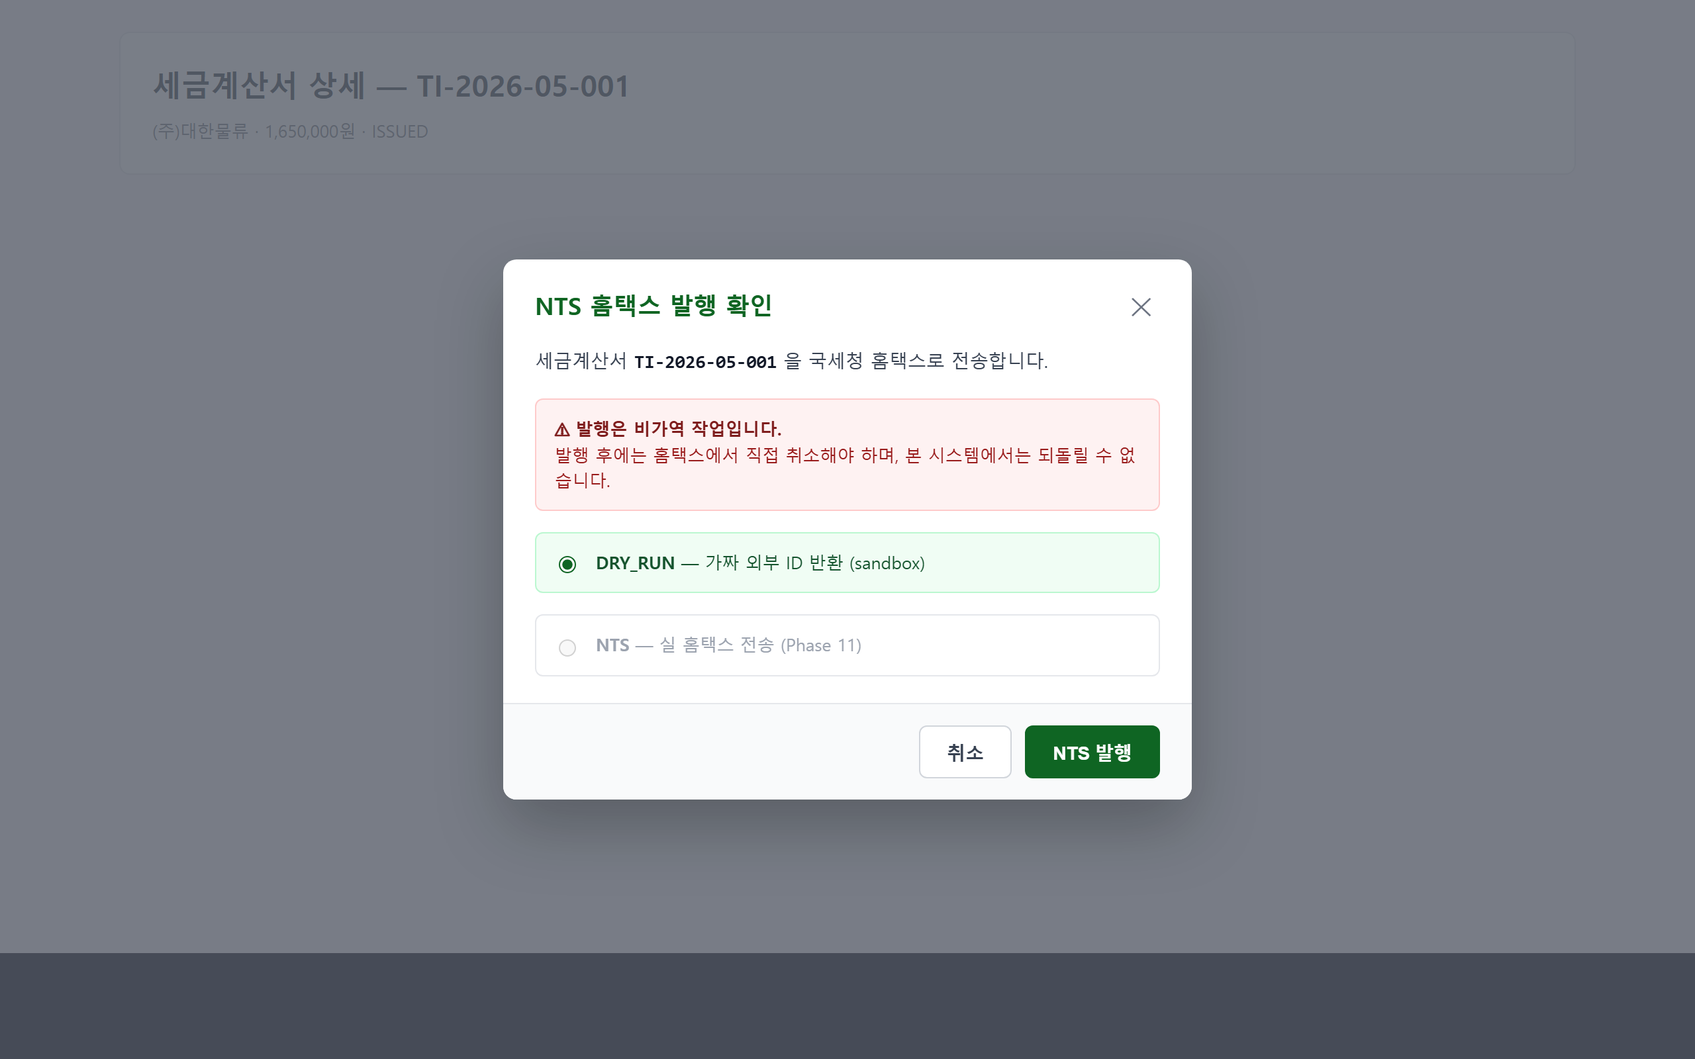
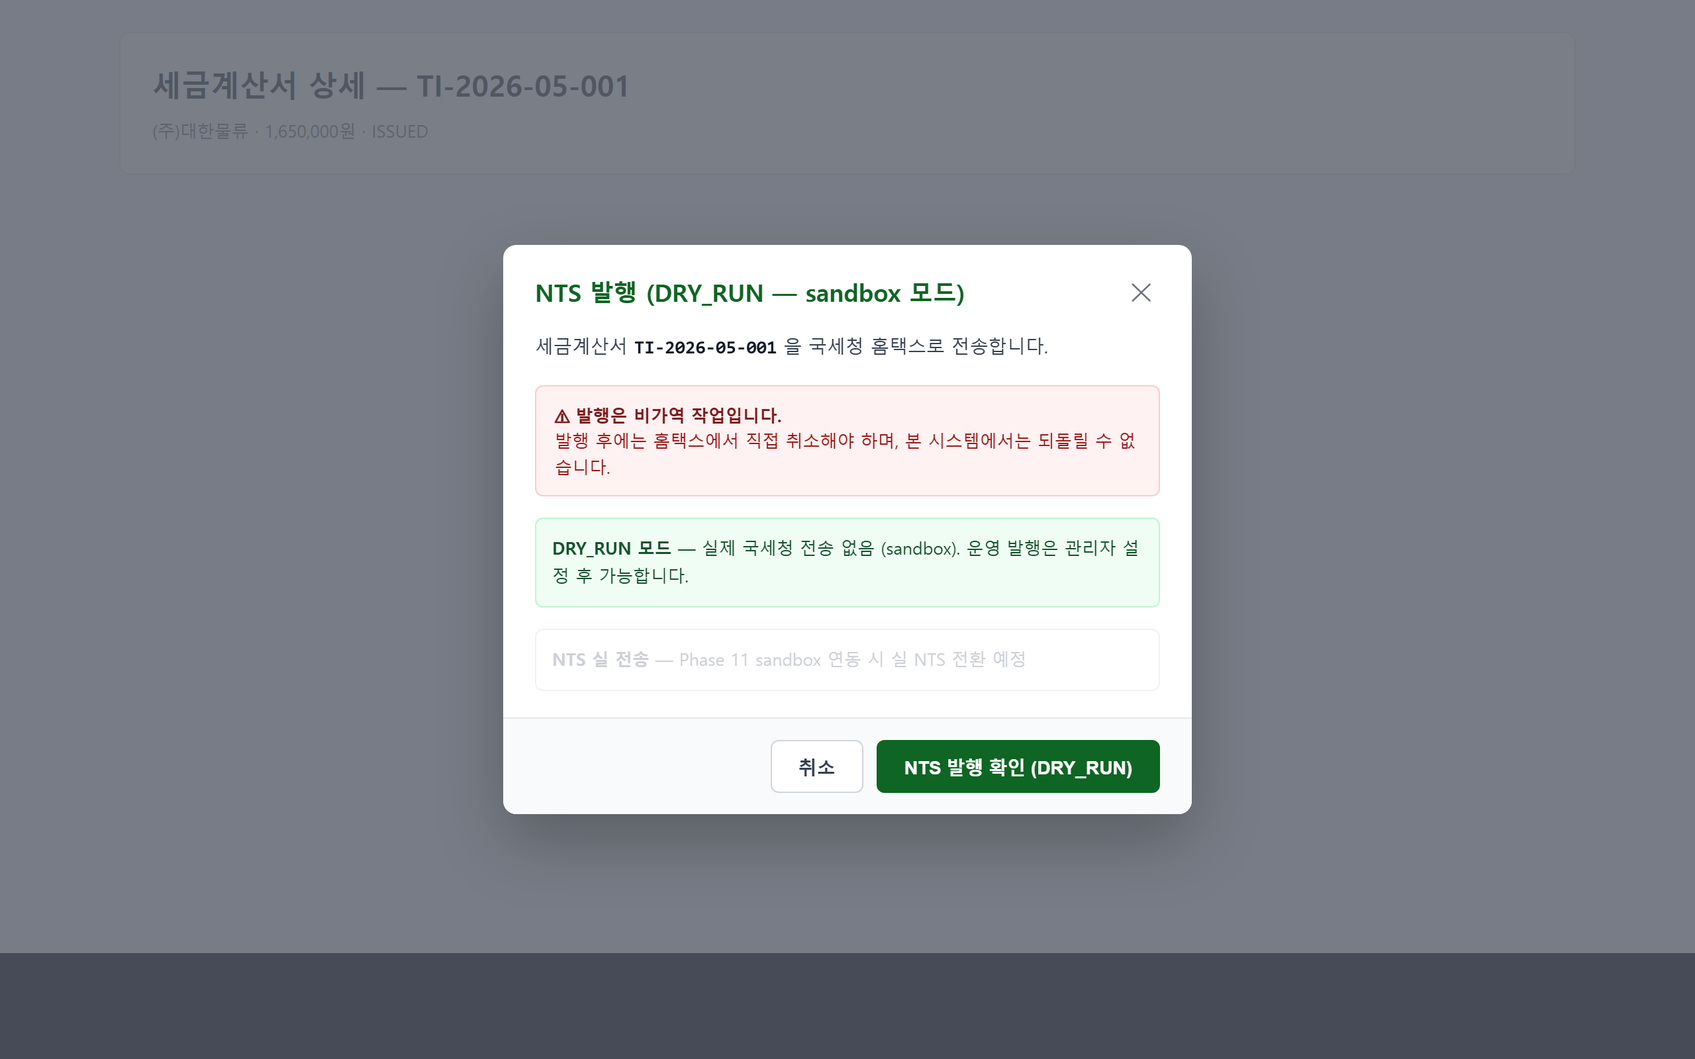
docs(sp-09-1): Codex 사이클 1 후반 5-section review markdown + 02 PNG 재캡처
- codex-{be,fe,designer,qa,devops}-cycle1.md 5개 (cross-check review 결과)
- 02 PNG: DRY_RUN 안내 modal 갱신 HTML 반영 재캡처 (109KB)

Codex review TM 결정안: cycle 2 진입 권고했으나
Claude 5-team 가 cycle 1 후반에 Codex 발견 결함 4 merge blocker + 6 medium 통합 fix 완료
(commits 7c5f0982, c56022ce, b0f5378a) → cycle 1 내 모든 결함 해소 → cycle 2 불필요

diff --git a/docs/qa/sp-09-1-nts-etax-emit-shell/codex-be-cycle1.md b/docs/qa/sp-09-1-nts-etax-emit-shell/codex-be-cycle1.md
@@ -1,0 +1,54 @@
+# SP-09-1 NTS e-Tax 발행 shell — Codex BE Cycle 1 후반 리뷰
+
+브랜치: `feat/sp-09-1-nts-etax-emit-shell`  
+HEAD: `7363a729`  
+범위: Section A — `accounting-service` read-only cross-check
+
+## 결론
+
+**cycle 2 진입 권고.** Claude cycle 1의 주요 BE 지적 중 `ETaxClient` 2-인자 시그니처, V16 partial unique index, `markEmitted()` 도메인 가드, audit 직접 검증은 대체로 반영되었다. 다만 `REQUIRES_NEW` audit 격리가 같은 bean 내부 self-invocation으로 적용되지 않아 설계 의도와 테스트 설명이 틀린 상태다.
+
+## 결함
+
+### HIGH — `recordEmitAudit()`의 `REQUIRES_NEW`가 self-invocation으로 적용되지 않음
+
+- 위치: `services/accounting-service/src/main/java/com/samhanair/logis/accounting/service/TaxInvoiceEmitService.java:68`, `:113`, `:135`
+- 현상: `emitNts()`가 같은 클래스의 `recordEmitAudit()`를 직접 호출한다. Spring proxy 기반 `@Transactional(propagation = REQUIRES_NEW)`는 외부 proxy 호출에서만 적용되므로, 현재 audit 기록은 비즈니스 트랜잭션과 독립 커밋되지 않는다.
+- 영향: Javadoc의 “audit 예외가 비즈니스 롤백을 유발하지 않음 / 독립 커밋” 보장이 실제와 다르다. audit 저장이 rollback-only를 만들거나 외부 트랜잭션에 묶이면 `markEmitted()`와 audit의 실패/커밋 경계가 의도와 달라진다.
+- 권고: `TaxInvoiceEmitAuditRecorder` 같은 별도 `@Service`로 분리하고 그 public method에 `REQUIRES_NEW`를 적용하거나, `TransactionTemplate(REQUIRES_NEW)`로 명시 실행한다.
+
+### MEDIUM — DB unique 위반이 API 409 계약으로 surface되지 않음
+
+- 위치: `TaxInvoiceEmitService.java:110`, `V16__tax_invoice_etax_external_id_unique.sql:6`
+- 현상: V16은 `e_tax_external_id` partial unique index를 추가했지만, `ti.markEmitted(result.eTaxExternalId())` 이후 flush/commit 시 발생할 수 있는 `DataIntegrityViolationException`을 도메인 `TAX_INVOICE_ALREADY_EMITTED` 409로 변환하지 않는다.
+- 영향: 동일 NTS 접수번호가 두 세금계산서에 반환되는 race/외부 중복 상황에서 500 계열로 노출될 가능성이 있다. 검토 기준의 “중복 발행 이중 가드(DB UNIQUE + 도메인)”는 DB 가드만 추가됐고 HTTP 계약은 미완성이다.
+- 권고: 저장/flush 경계에서 unique violation을 catch해 `TAX_INVOICE_ALREADY_EMITTED` 또는 별도 도메인 error로 변환하고 IT를 추가한다.
+
+### MEDIUM — NTS 모드는 env template 기본값만으로도 “키 설정됨”으로 통과함
+
+- 위치: `ETaxClientImpl.java:105`, `infrastructure/env-templates/accounting-service.env:38`
+- 현상: `submitNts()`는 `ntsApiKey.isBlank()`만 검사한다. env template은 `NTS_API_KEY=PLACEHOLDER_DEV_ONLY`를 제공하므로, 운영자가 `ETAX_SUBMIT_METHOD=NTS`만 바꾸면 placeholder가 실제 키처럼 통과하고 이후 “미구현” 502로만 실패한다.
+- 영향: Phase 11 전환 시 설정 오류를 빠르게 구분하지 못한다. credential guard 관점에서 placeholder는 안전하지만, 런타임 guard로는 불충분하다.
+- 권고: `PLACEHOLDER_DEV_ONLY`, `changeme`, `dummy` 계열을 명시 차단하거나 NTS 모드 활성화 flag/프로파일을 분리한다.
+
+### LOW — `ETaxClientImpl` Javadoc과 구현의 submitMethod 우선순위가 서로 충돌
+
+- 위치: `ETaxClientImpl.java:55-57`, `:67-74`
+- 현상: Javadoc은 “서버 property가 DRY_RUN이면 요청이 NTS여도 DRY_RUN 실행”이라고 설명하지만 구현은 요청 `submitMethod`를 우선해 `NTS` 분기로 진입한다.
+- 영향: 운영 정책 오해 가능. 실제 코드는 Claude H-1 fix 방향(요청 파라미터 우선)에 맞다.
+- 권고: Javadoc에서 서버 property override 설명을 제거하고 “request 우선, null/blank만 property fallback”으로 정정한다.
+
+## Claude cycle 1 fix cross-check
+
+| Claude 항목 | Codex 판정 | 근거 |
+|---|---|---|
+| H-1 submitMethod 미전달 | FIXED | `ETaxClient.submit(TaxInvoice, String)`와 `TaxInvoiceEmitService` 전달 반영 |
+| H-2 audit rollback 위험 | PARTIAL / 재결함 | `REQUIRES_NEW`를 붙였지만 self-invocation이라 적용 안 됨 |
+| M-1 DB UNIQUE 미존재 | FIXED + 후속 MEDIUM | V16 추가. 단 unique violation HTTP 변환 없음 |
+| M-3 `linkETaxExternalId` 잔류 | PARTIAL | `@Deprecated(forRemoval=true)` 처리됨. 호출부 제거는 후속 |
+| M-4 audit 직접 검증 없음 | FIXED(테스트 의도) / 구현 재검토 필요 | repository 직접 조회 추가. 단 self-invocation 때문에 “독립 트랜잭션” 설명은 틀림 |
+| M-5 UUID fallback | FIXED | `UNKNOWN` fallback으로 UUID substring 제거 |
+
+## TM 결정안
+
+**cycle 2 진입 권고.** Merge blocker: `REQUIRES_NEW` self-invocation 수정. 권고 blocker: DB unique violation 409 변환, placeholder runtime guard, Javadoc 정정.

diff --git a/docs/qa/sp-09-1-nts-etax-emit-shell/codex-qa-cycle1.md b/docs/qa/sp-09-1-nts-etax-emit-shell/codex-qa-cycle1.md
@@ -1,0 +1,61 @@
+# SP-09-1 NTS e-Tax 발행 shell — Codex QA Cycle 1 후반 리뷰
+
+브랜치: `feat/sp-09-1-nts-etax-emit-shell`  
+HEAD: `7363a729`  
+범위: Section D — IT, Playwright, QA screenshots, dev-report
+
+## 결론
+
+**cycle 2 진입 권고.** Claude cycle 1에서 지적한 빈 PNG, `|| true`, audit 직접 검증, enum 불일치는 대부분 수정됐다. 그러나 Playwright T5는 여전히 현재 page 상태를 혼동해 SALES 버튼 검증을 INVENTORY 페이지에서 수행하고, T1/T3는 route mock과 페이지 로드 확인 중심이라 실제 emit flow 검증력이 낮다.
+
+## 결함
+
+### HIGH — Playwright T5가 SALES 버튼 검증을 INVENTORY 페이지에서 수행함
+
+- 위치: `clients/desktop/playwright/sp-09-1-nts-etax-emit-shell/sp-09-1-nts-etax-emit-shell.spec.ts:536-562`
+- 현상: T5는 SALES 페이지에서 `salesBlocked`를 계산한 뒤 MANAGER, INVENTORY 페이지로 이동한다. 이후 `salesNtsBtnCount`를 계산하는 시점은 이미 INVENTORY 페이지다.
+- 영향: “SALES 역할에서 NTS 발행 버튼 미노출” 검증이 실제 SALES 화면을 보지 않는다. Claude H1의 `|| true` false-green은 제거됐지만, assertion 대상 페이지가 바뀌어 여전히 권한 회귀를 놓칠 수 있다.
+- 권고: SALES 페이지에서 `salesNtsBtnCount`를 즉시 계산하거나, 역할별로 `test.step`을 분리해 page 이동과 assertion을 붙여 둔다.
+
+### MEDIUM — Playwright T1의 422/409 분기는 실 FE flow에서 트리거되지 않음
+
+- 위치: `sp-09-1-nts-etax-emit-shell.spec.ts:141-156`, `:206-209`
+- 현상: T1은 `url.includes('draftTest')`, `duplicateTest`일 때 422/409를 반환하지만 실제 UI가 해당 URL을 호출하지 않는다. 테스트는 페이지 로드와 pageerror 없음만 확인한다.
+- 영향: 422/409 한국어 에러 렌더링 회귀를 잡지 못한다.
+- 권고: 실제 버튼 클릭 전에 route가 409/422를 반환하도록 고정하고, `role="alert"` 또는 error banner text를 assert한다.
+
+### MEDIUM — Playwright T3는 emit 버튼 클릭 없이 eTaxExternalId 관련 문구만 검사함
+
+- 위치: `sp-09-1-nts-etax-emit-shell.spec.ts:337-414`
+- 현상: emit-nts route와 audit route를 mock하지만 실제 “NTS 발행” 버튼 클릭, modal confirm, API 호출, cache invalidation 뒤 banner 표시를 연속 검증하지 않는다. `bodyText.includes('e-Tax')` 같은 넓은 조건으로 통과 가능하다.
+- 영향: eTaxExternalId banner가 실제 성공 후 렌더되는지 보장하지 못한다.
+- 권고: issued detail 진입 → 버튼 클릭 → modal confirm → route 호출 횟수 확인 → `data-testid="tax-invoice-detail-etax-external-id"` 표시 순서로 검증한다.
+
+### LOW — IT의 audit “독립 트랜잭션” 주석/검증 설명이 구현과 다름
+
+- 위치: `TaxInvoiceEmitNtsIT.java:57-60`, `TaxInvoiceEmitService.java:113`, `:135`
+- 현상: IT는 `recordEmitAudit`가 `REQUIRES_NEW`라 테스트 rollback과 무관하게 audit row가 남는다고 설명한다. 실제 구현은 self-invocation이라 `REQUIRES_NEW`가 적용되지 않는다.
+- 영향: 테스트가 audit row 존재는 볼 수 있어도 트랜잭션 독립성은 검증하지 못한다.
+- 권고: BE fix 후 audit recorder bean을 분리하고, audit 실패가 `markEmitted` commit을 막지 않는 별도 테스트를 추가한다.
+
+## Claude cycle 1 fix cross-check
+
+| Claude 항목 | Codex 판정 | 근거 |
+|---|---|---|
+| C1 FE/BE enum 불일치 | FIXED | FE `NTS`, BE `DRY_RUN|NTS` 일치 |
+| C2 빈 screenshot | FIXED | PNG 4장 90~110KB로 교체 |
+| H1 `|| true` false green | PARTIAL | `|| true` 제거. 하지만 T5 assertion page 혼동 잔존 |
+| H2 audit 직접 검증 없음 | FIXED(존재 검증) / PARTIAL(독립성) | repository 조회 추가. 독립 트랜잭션 검증은 안 됨 |
+| H3 DB unique 없음 | FIXED | V16 partial unique 추가 |
+| M1 route mock 자기 참조 | REMAINS | 주석으로 목적 재정의했지만 실제 에러 렌더 assert 없음 |
+| M2 dead code | FIXED | `etaxIdDisplayed` expect 추가 |
+| L3 never-executed branch | REMAINS | `draftTest`/`duplicateTest` 분기 여전히 실 UI 무관 |
+
+## 검증
+
+- `npm run typecheck` (`clients/desktop`) — PASS
+- `.\gradlew.bat :services:accounting-service:compileJava :services:accounting-service:compileTestJava` — 실행 불가: Gradle wrapper lock file 접근 거부 (`gradle-8.10.2-bin.zip.lck`)
+
+## TM 결정안
+
+**cycle 2 진입 권고.** QA merge blocker: T5 역할별 page/assertion 분리. 권고 blocker: T1/T3를 실제 emit flow 기반으로 강화.

diff --git a/docs/qa/sp-09-1-nts-etax-emit-shell/codex-fe-cycle1.md b/docs/qa/sp-09-1-nts-etax-emit-shell/codex-fe-cycle1.md
@@ -1,0 +1,51 @@
+# SP-09-1 NTS e-Tax 발행 shell — Codex FE Cycle 1 후반 리뷰
+
+브랜치: `feat/sp-09-1-nts-etax-emit-shell`  
+HEAD: `7363a729`  
+범위: Section B — `clients/desktop` read-only cross-check
+
+## 결론
+
+**cycle 2 진입 권고.** Claude cycle 1의 FE 계약 불일치(`EmitNtsResponse`, `NtsSubmitMethod`)와 409/422/502 분기는 대부분 수정됐다. `npm run typecheck`는 `clients/desktop`에서 통과했다. 다만 실제 화면은 항상 `DRY_RUN`만 호출하며, PR/QA 문서가 “DRY_RUN/NTS 선택”을 주장하는 것과 불일치한다.
+
+## 결함
+
+### MEDIUM — UI에서 `NTS` submitMethod를 선택/전달할 방법이 없음
+
+- 위치: `clients/desktop/src/renderer/routes/TaxInvoiceDetailPage.tsx:171`
+- 현상: `emitNtsMutation`이 `emitTaxInvoiceToNts(id, 'DRY_RUN')`로 고정되어 있다. API client는 `NtsSubmitMethod = 'DRY_RUN' | 'NTS'`와 2번째 인자를 제공하지만 상세 화면은 항상 DRY_RUN만 전송한다.
+- 영향: PR body의 “confirm modal — DRY_RUN/NTS 선택” 및 Section B의 `NtsSubmitMethod` 계약 검증과 화면 동작이 어긋난다. shell 단계에서 DRY_RUN 우선이 정책이면 문서/라벨을 “NTS 발행”보다 “NTS 발행 준비(DRY_RUN)”에 가깝게 명시해야 한다.
+- 권고: (a) shell 단계에서는 UI/PR 문서 모두 DRY_RUN 고정으로 정정하거나, (b) 운영/권한/환경 guard 뒤에 `NTS` 선택 UI를 추가한다.
+
+### MEDIUM — `eTaxExternalId` 표시가 UUID 비공개 설명과 충돌 소지가 있음
+
+- 위치: `TaxInvoiceDetailPage.tsx:24`, `:501-529`
+- 현상: 파일 상단 Javadoc은 “id / eTaxExternalId 코드 표시 전용”이라고 쓴다. 실제 화면은 `eTaxExternalId`를 그대로 노출한다. 현재 DRY_RUN 값은 `DRY-{taxInvoiceNo}-{epochMilli}`라 UUID가 아니지만, Phase 11 실 NTS 응답 형식이 UUID-like 또는 내부 추적 ID가 될 경우 UUID 비공개 원칙과 충돌할 수 있다.
+- 영향: 지금은 실 결함이 아니지만 vendor 연동 시 사용자 화면에 raw external/internal identifier가 그대로 노출될 수 있다.
+- 권고: `ETaxClient` 계약에 “사용자 노출 가능한 홈택스 접수번호만 반환”을 명시하고, 필요 시 표시용 `eTaxReceiptNo`와 내부 `eTaxExternalId`를 분리한다.
+
+### LOW — Axios error envelope 타입이 `code`를 모델링하지 않아 ErrorCode 분기 회귀를 잡기 어려움
+
+- 위치: `TaxInvoiceDetailPage.tsx:189-198`
+- 현상: `err.response?.data`를 `{ message?: string }`으로만 캐스팅한다. BE envelope은 `code`도 제공하지만 FE가 타입으로 보지 않는다.
+- 영향: 현재는 HTTP status로 409/422/502를 분기하므로 사용자 메시지는 동작한다. 그러나 같은 status 안에 세부 ErrorCode가 늘면 FE 분기가 어려워진다.
+- 권고: 공통 `ApiErrorEnvelope` 타입을 사용해 `code?: string`을 포함하고, Playwright/단위 테스트에서 409/422/502 envelope을 실제 shape(`code`, `message`)으로 검증한다.
+
+## Claude cycle 1 fix cross-check
+
+| Claude 항목 | Codex 판정 | 근거 |
+|---|---|---|
+| C-01 `EmitNtsResponse` 타입 불일치 | FIXED | 5필드 interface로 분리됨 |
+| C-02 `NtsSubmitMethod` REAL/NTS 불일치 | FIXED | `'DRY_RUN' | 'NTS'`로 정정 |
+| H-01 mock handler 상태 검증 없음 | FIXED | `ISSUED`/중복/404 guard 추가 |
+| H-02 BE 한국어 메시지 미추출 | PARTIAL | status별 한국어 fallback 추가. envelope `code` 타입은 없음 |
+| M-02 DRY_RUN 고정/선택 UI 없음 | REMAINS | 여전히 `DRY_RUN` 하드코딩 |
+| M-03 external id 노출 | WATCH | DRY_RUN은 안전. 실 NTS 응답 계약 확정 필요 |
+
+## 검증
+
+- `npm run typecheck` (`clients/desktop`) — PASS
+
+## TM 결정안
+
+**cycle 2 진입 권고.** FE 단독 merge blocker는 아니지만, PR/QA 문서의 “DRY_RUN/NTS 선택” 주장과 실제 UI의 DRY_RUN 고정 동작 중 하나를 정리해야 한다.

diff --git a/docs/qa/sp-09-1-nts-etax-emit-shell/codex-devops-cycle1.md b/docs/qa/sp-09-1-nts-etax-emit-shell/codex-devops-cycle1.md
@@ -1,0 +1,52 @@
+# SP-09-1 NTS e-Tax 발행 shell — Codex DevOps Cycle 1 후반 리뷰
+
+브랜치: `feat/sp-09-1-nts-etax-emit-shell`  
+HEAD: `7363a729`  
+범위: Section E — env, Flyway, IT isolation, CI
+
+## 결론
+
+**cycle 2 진입 권고.** Claude DevOps cycle 1의 ENV 문서 누락, 기존 IT `@MockBean ETaxClient`, V16 unique index는 반영됐다. 남은 DevOps 리스크는 placeholder API key가 NTS 모드 runtime guard를 통과한다는 점과, backend compile/test 검증이 로컬 Gradle wrapper lock 접근 거부로 확인되지 않았다는 점이다.
+
+## 결함
+
+### MEDIUM — `PLACEHOLDER_DEV_ONLY`가 NTS runtime key guard를 통과함
+
+- 위치: `infrastructure/env-templates/accounting-service.env:37-39`, `ETaxClientImpl.java:105-113`
+- 현상: env template은 `NTS_API_KEY=PLACEHOLDER_DEV_ONLY`를 둔다. `submitNts()`는 blank 여부만 검사하므로 placeholder를 유효한 키처럼 취급한다.
+- 영향: 운영자가 `ETAX_SUBMIT_METHOD=NTS`만 전환하면 “키 미설정”이 아니라 미구현/외부 호출 실패로 진행된다. Phase 11 AWS/운영 PC 전환 때 설정 사고 감지가 늦어진다.
+- 권고: NTS 모드에서 `PLACEHOLDER_DEV_ONLY`를 명시 거부하거나, `NTS_API_KEY` 기본값을 빈 값으로 두고 문서에만 placeholder 예시를 둔다.
+
+### MEDIUM — backend compile/test 검증 미확인
+
+- 위치: Gradle wrapper runtime
+- 현상: `.\gradlew.bat :services:accounting-service:compileJava :services:accounting-service:compileTestJava` 실행이 `C:\Users\user\.gradle\wrapper\dists\...\gradle-8.10.2-bin.zip.lck (액세스가 거부되었습니다)`로 실패했다.
+- 영향: PR #236 head `7363a729`에 대해 Codex 환경에서 accounting-service 컴파일 검증을 완료하지 못했다. CI green 여부와 별도로 cycle 1 후반 local evidence가 부족하다.
+- 권고: 잠금 프로세스 정리 후 compile/test 재실행 또는 GitHub checks evidence로 대체 확인한다.
+
+### LOW — `.github/workflows/ci.yml` 변경 없음은 적절하나 PR-specific Playwright 경로는 CI hard gate가 아님
+
+- 위치: `.github/workflows/ci.yml` 변경 없음, `clients/desktop/playwright/sp-09-1-nts-etax-emit-shell/...`
+- 현상: 이번 PR은 별도 Playwright spec을 추가했지만 CI matrix 변경은 없다. 기존 정책상 PR별 QA screenshot 산출물로 보완하는 패턴은 가능하나, spec 자체가 CI hard gate인지 확인되지 않는다.
+- 영향: T5/T1/T3 같은 QA spec 결함이 CI에서 merge blocker로 잡히지 않을 수 있다.
+- 권고: PR 본문에 실행 명령/결과를 명확히 남기고, 장기적으로 slice-specific Playwright spec discovery를 CI에 포함한다.
+
+## Claude cycle 1 fix cross-check
+
+| Claude 항목 | Codex 판정 | 근거 |
+|---|---|---|
+| D1 ENV 템플릿/문서 미갱신 | FIXED | `accounting-service.env`, `dev-environment-setup-multi-pc.md`에 ETAX/NTS 추가 |
+| D2 기존 IT `ETaxClient @MockBean` 미추가 | FIXED | `rg` 기준 accounting IT 다수에 `@MockBean ETaxClient` 추가 확인 |
+| D3 partial UNIQUE 인덱스 미존재 | FIXED | V16 추가 |
+| D4 FE `REAL` vs BE `NTS` 불일치 | FIXED | FE 타입 정정 |
+| credential plaintext guard | PASS(정적) | `sk-`, `AKIA`, JWT-like secret 패턴은 신규 ETAX 영역에서 확인되지 않음 |
+| CI workflow 변경 없음 | PASS | 신규 env/test/doc 범위라 workflow 변경 불필요 판단 가능 |
+
+## 검증
+
+- `npm run typecheck` (`clients/desktop`) — PASS
+- Gradle compile/test — 미완료. wrapper `.lck` 접근 거부로 실행 실패
+
+## TM 결정안
+
+**cycle 2 진입 권고.** DevOps merge blocker는 placeholder runtime guard 또는 운영 전환 명시화다. 로컬 backend compile은 환경 lock 해소 후 재검증 필요.

diff --git a/docs/qa/sp-09-1-nts-etax-emit-shell/codex-designer-cycle1.md b/docs/qa/sp-09-1-nts-etax-emit-shell/codex-designer-cycle1.md
@@ -1,0 +1,48 @@
+# SP-09-1 NTS e-Tax 발행 shell — Codex Designer Cycle 1 후반 리뷰
+
+브랜치: `feat/sp-09-1-nts-etax-emit-shell`  
+HEAD: `7363a729`  
+범위: Section C — design-system, 상세 화면, QA mock screenshots
+
+## 결론
+
+**조건부 cycle 2 권고.** Claude cycle 1의 주요 디자인 지적(NTS 녹색 토큰, `Badge variant="nts"`, monospace, 비가역 경고, 빈 PNG 교체)은 대부분 반영됐다. 남은 문제는 디자인 산출물/PR 문구가 실제 UI와 다르게 “DRY_RUN/NTS 선택”을 말하는 점과, mock HTML 스크린샷이 실제 앱 render가 아니라 산출 증거로는 제한적이라는 점이다.
+
+## 결함
+
+### MEDIUM — PR/QA 설명은 “DRY_RUN/NTS 선택”인데 실제 confirm modal에는 선택 UI가 없음
+
+- 위치: `docs/qa/sp-09-1-nts-etax-emit-shell/pr-body.md:60`, `TaxInvoiceDetailPage.tsx:696-751`
+- 현상: PR body의 screenshot 설명은 “confirm modal — DRY_RUN/NTS 선택 + 비가역 경고”라고 되어 있으나 실제 modal은 현재 DRY_RUN 모드 문구만 보여주고 선택 컨트롤을 제공하지 않는다.
+- 영향: reviewer가 screenshot과 구현을 다르게 이해한다. NTS 실 발행 shell의 UX 결정(운영 전 DRY_RUN 고정 vs 선택 제공)이 불명확해진다.
+- 권고: 문구를 “DRY_RUN 안내 + 비가역 경고”로 정정하거나, segmented control/select로 DRY_RUN/NTS 선택을 구현한다.
+
+### LOW — NTS CTA는 토큰을 쓰지만 inline style로 hover/focus state 일관성이 약함
+
+- 위치: `TaxInvoiceDetailPage.tsx:461-470`
+- 현상: 버튼은 design-system `Button`을 쓰되 `style`로 `background`, `borderColor`, `color`만 override한다. hover/active/focus 색은 `Button` primary 기본 스타일과 충돌하거나 NTS 토큰과 불일치할 수 있다.
+- 영향: 기본 상태는 녹색으로 구분되지만 상호작용 상태에서 브랜드 블루/primary 스타일이 섞일 가능성이 있다.
+- 권고: `Button` variant 확장 또는 local class로 `--color-nts-primary` 기반 hover/active/focus-ring을 함께 정의한다.
+
+### LOW — QA PNG는 90~110KB UI mock으로 교체됐지만 실제 app render 증거는 아님
+
+- 위치: `docs/qa/sp-09-1-nts-etax-emit-shell/screenshots/*.html`, `*.png`
+- 현상: cycle 1의 5KB 빈 PNG는 교체됐다. 현재 4장 PNG는 HTML mock에서 생성된 정적 화면이다.
+- 영향: PR screenshot 의무는 충족 방향이나, 실제 `TaxInvoiceDetailPage`/design-system 렌더와 CSS cascade까지 보장하지는 않는다.
+- 권고: Playwright mock-mode 실제 route 캡처를 별도 파일로 추가하거나, PR 본문에서 “HTML mock evidence”라고 명확히 표기한다.
+
+## Claude cycle 1 fix cross-check
+
+| Claude 항목 | Codex 판정 | 근거 |
+|---|---|---|
+| D1 NTS 녹색 미사용 | FIXED | `--color-nts-primary: #0F6523` 추가 및 CTA/banner 사용 |
+| D2 EMITTED 시각 구분 없음 | FIXED | `Badge variant="nts"` 추가 |
+| D3 monospace 미적용 | FIXED | `fontFamily: var(--font-family-mono)` 적용 |
+| D4 비가역 경고 약함 | FIXED | modal 내 danger `role="alert"` 경고 추가 |
+| D5 CTA 시각 구분 | PARTIAL | 기본 색은 구분. hover/focus state는 inline style 한계 |
+| D6 token 이탈 | PARTIAL | NTS 색은 토큰화. 일부 fontSize inline 유지 |
+| 빈 PNG | FIXED | 90~110KB PNG로 교체됨 |
+
+## TM 결정안
+
+**cycle 2 진입 권고.** 디자인 merge blocker는 문서/UX 불일치 정리 정도다. 실제 앱 캡처 보강은 QA blocker 쪽에서 함께 처리하는 것이 적절하다.
